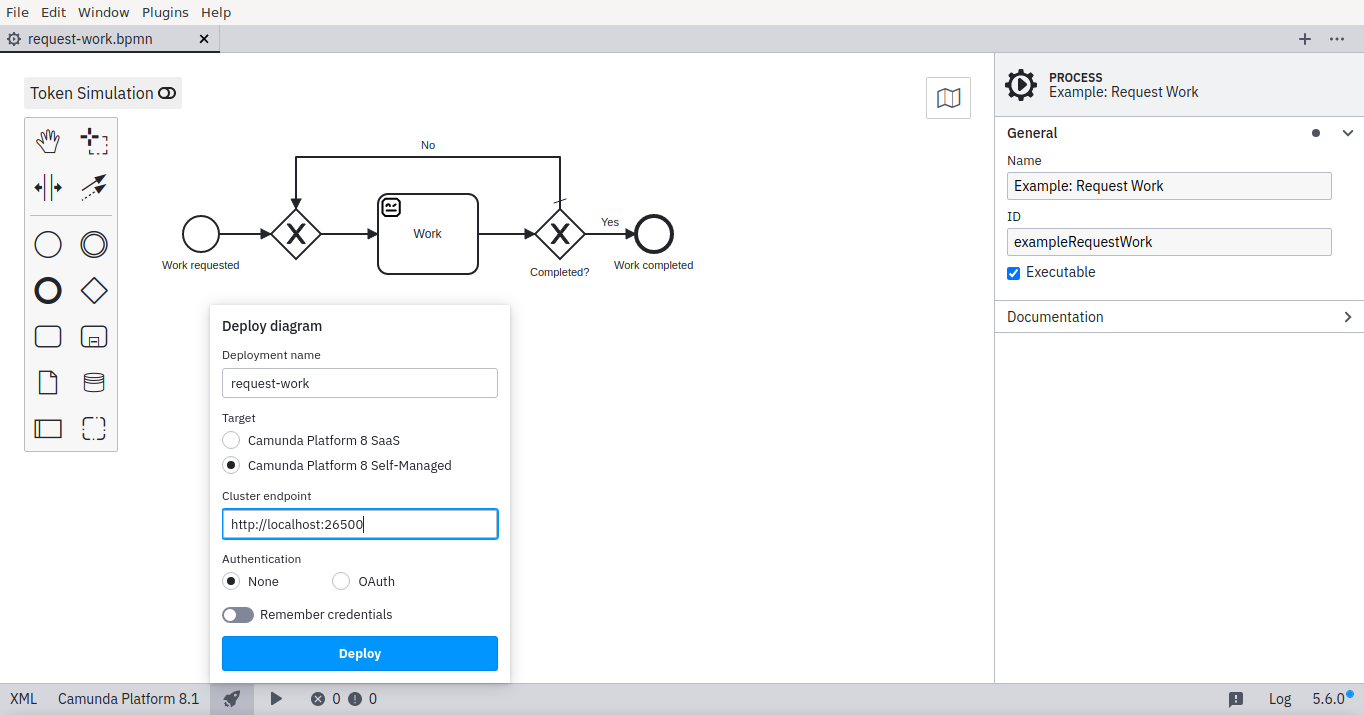
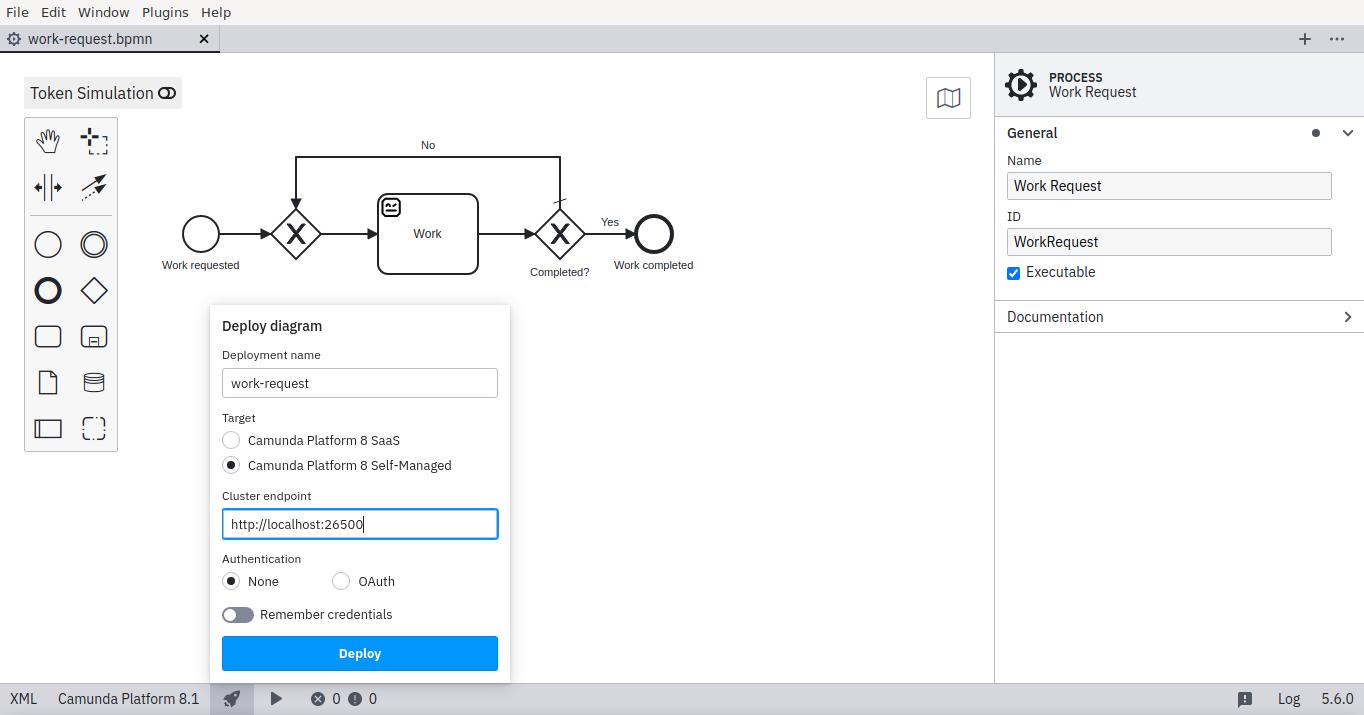
docs: update execution

diff --git a/docs/execution/index.md b/docs/execution/index.md
@@ -83,8 +83,8 @@ and access it again. You have now implemented the expressions used in our exampl
 
 Before deploying a model, it must be saved and given a filename. This is the model we've been building so far:
 
-```{bpmn-figure} request-work
-{download}`request-work.bpmn`
+```{bpmn-figure} work-request
+{download}`work-request.bpmn`
 ```
 
 ## Deploy to Zeebe
@@ -207,7 +207,7 @@ That's how Zeebe Play allows us to play with the process and manually confirm th
 
 Similarly to completing the service task, Zeebe Play also allows to trigger timer and error events (the later by throwing error from a task):
 
-{download}`request-work-with-timer.bpmn`<br/>
-{download}`request-work-with-error.bpmn`<br/>
+{download}`work-request-with-timer.bpmn`<br/>
+{download}`work-request-with-error.bpmn`<br/>
 
 
